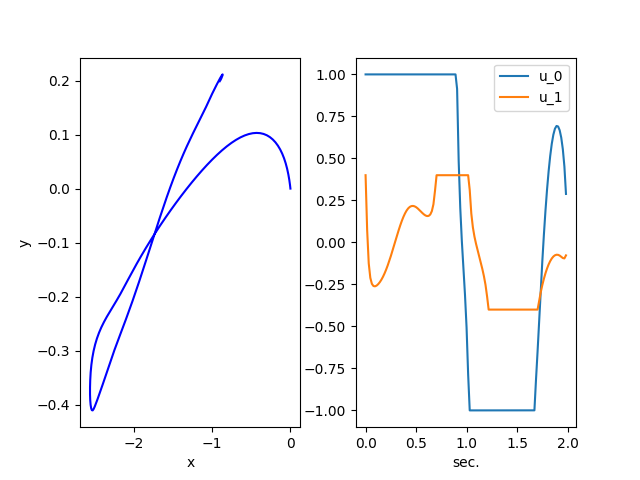
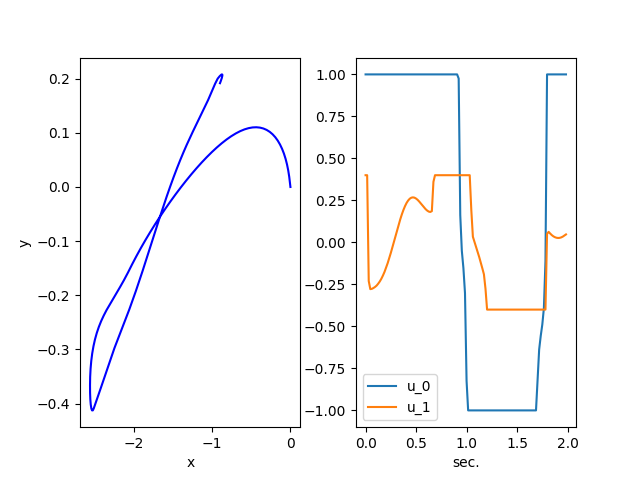
minor update on code and plots

diff --git a/HW7/arm_sim.py b/HW7/arm_sim.py
@@ -29,8 +29,8 @@ class Arm:
         # cost function parameters
         # self.Q = np.diag([0, 0, 0, 0])
         self.Q = np.diag([1, 1, 1, 1])
-        self.R = np.diag([0.1, 0.5])
-        self.Qf = np.diag([1, 1, 1, 1])
+        self.R = np.diag([0.01, 0.01])
+        self.Qf = np.diag([5, 5, 1, 1])
         self.Qs = np.sqrt(self.Q)
         self.Rs = np.sqrt(self.R)
         self.Qfs = np.sqrt(self.Qf)
@@ -110,7 +110,7 @@ if __name__ == '__main__':
     arm = Arm()
 
     # initial state
-    x0 = np.zeros(4)
+    # x0 = np.zeros(4)
 
     # controls
     us = np.zeros((2, arm.N))
